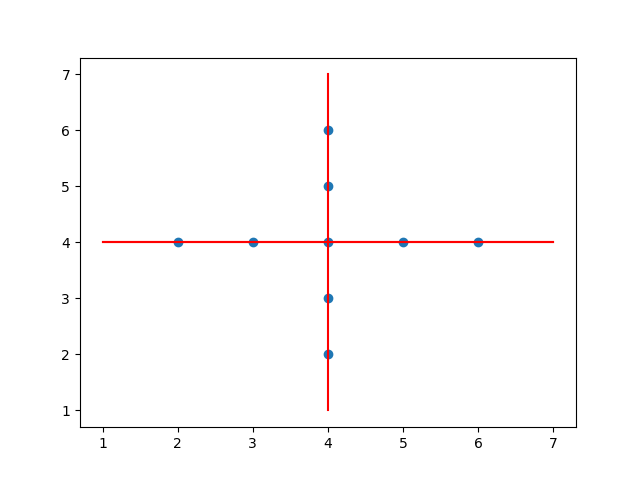
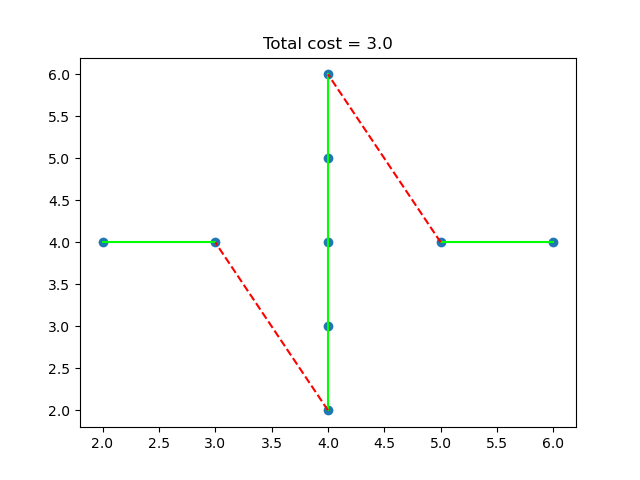
fancy visualisation added

diff --git a/plotter.py b/plotter.py
@@ -12,12 +12,19 @@ for i in fout:
 	if(i[0]==0):
 		continue
 	if(np.isnan(i[3])):
-		ly = np.linspace(bounds[0][1]-1,bounds[1][1]+1,3)
+		ly = np.linspace(fin[int(i[1]-1)][1],fin[int(i[0]-1)][1],3)
 		lx = [fin[int(i[1]-1)][0] for k in range(len(ly))]
 	else:
-		lx = np.linspace(bounds[0][0]-1,bounds[1][0]+1,3)
+		lx = np.linspace(fin[int(i[1]-1)][0],fin[int(i[0]-1)][0],3)
 		ly = i[3]*lx+i[4]
-	plt.plot(lx,ly, color="red")
+	plt.plot(lx,ly, color="lime")
+
+for i in range(len(fout)-1):
+	if(i==0):
+		continue
+	plt.plot([fin[int(fout[i][1])-1][0],fin[int(fout[i+1][0])-1][0]],[fin[int(fout[i][1])-1][1],fin[int(fout[i+1][0])-1][1]],color="red",linestyle="--")
+
+plt.title('Total cost = '+str(fout[1][2]), loc="center")
 
 plt.savefig("currplot")
 plt.show()
